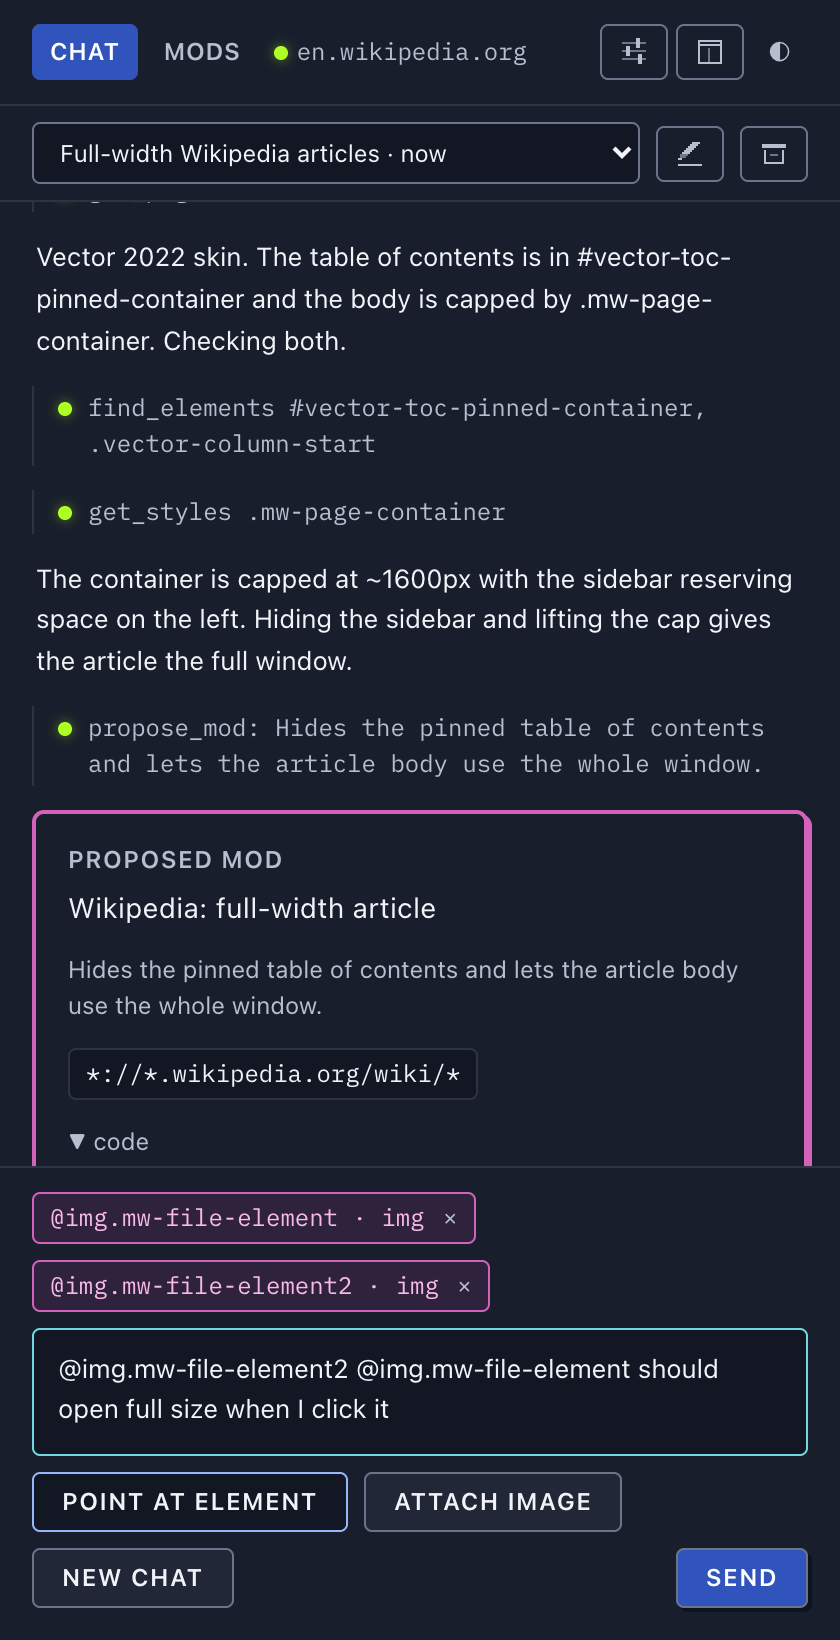
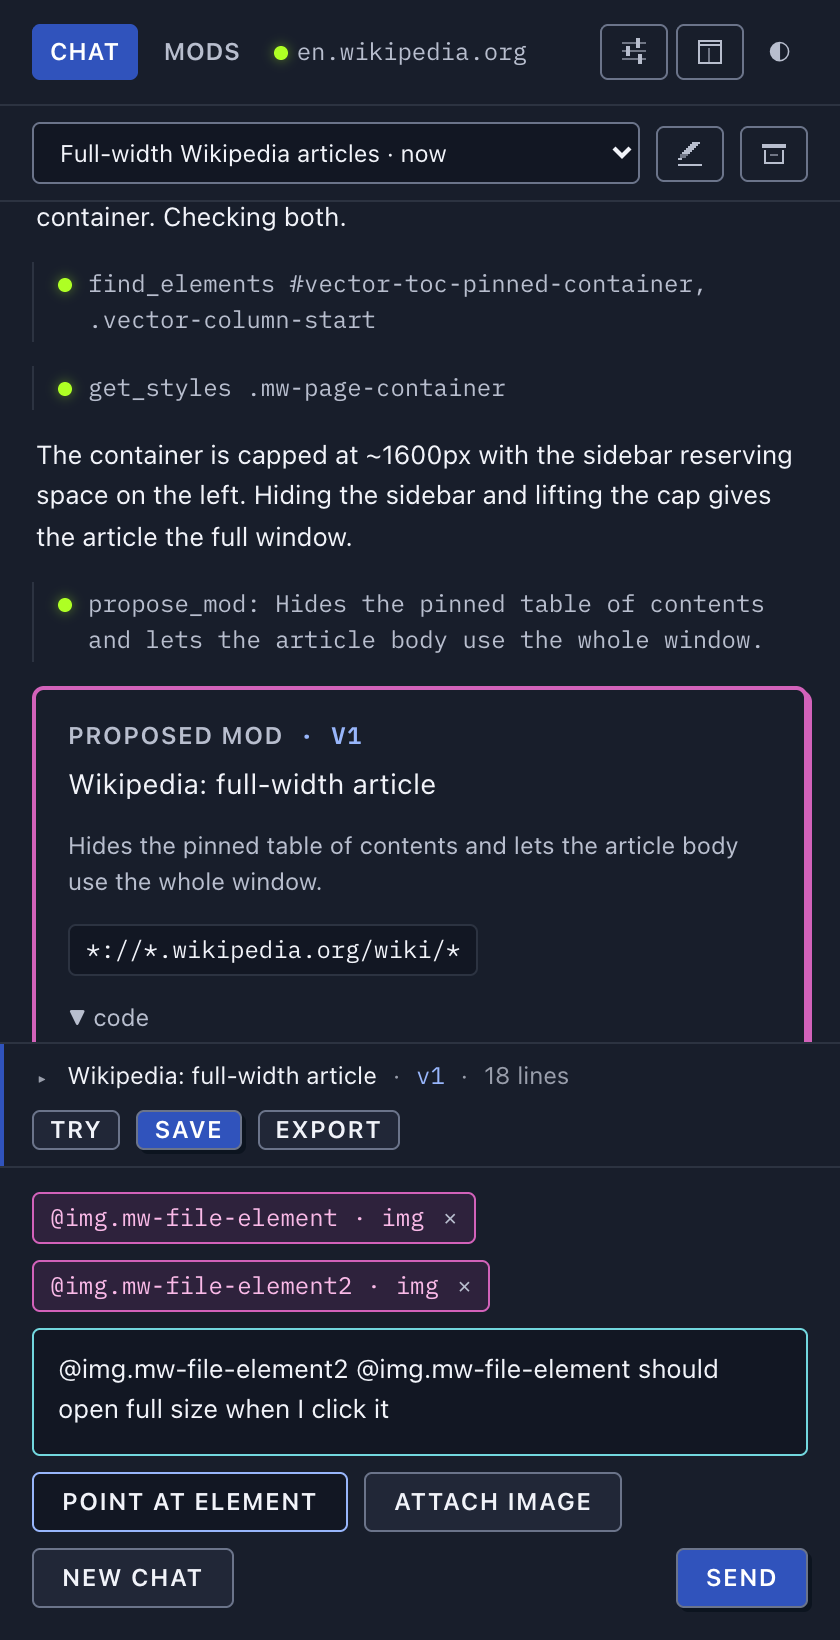
Integrate the draft mod with attachments: the fourth chat key, and the captures
Three things the merge left to settle.

The images suite asserted chatKeys() exactly, and the set legitimately grew a
fourth member when the draft key arrived. Widened rather than loosened: the
test still names every key, because that is what makes it catch the next key
someone adds and forgets to delete.

The two draft captures were numbered 08 and 09 on a branch that predated
08-images-*, so the merge produced two different 08s. Renumbered to 09 and 10.
Nothing links them yet, so this is only about the numbering staying a sequence.

Regenerated the captures on the merged code. 01-chat-proposal now shows both
features in one panel, which is the thing worth looking at: the collapsed draft
bar sits between the transcript and the composer, the proposal card reads "Open
in draft" rather than carrying its own Save, and Attach image is in the
composer's button row. docs/screenshots/hero-github.png is untouched.

diff --git a/test/images.test.ts b/test/images.test.ts
@@ -28,6 +28,7 @@ import {
   type AttachedImage,
 } from '../lib/images.ts';
 import { KEEP_IMAGE_TURNS, appendTurn, chatKeys, itemsKey, messagesKey, referencedHashes, slimMessages } from '../lib/chats.ts';
+import { artifactKey } from '../lib/artifact.ts';
 import { elideOldImages, estimatePart, IMAGE_TOKENS } from '../lib/agent/compact.ts';
 import type { ChatItem, Msg, Part } from '../lib/types.ts';
 import { pruneBlobs } from '../lib/blobs.ts';
@@ -273,7 +274,10 @@ test('tier 1 reports no change when every image is recent', () => {
 
 test('a chat owns a blobs key alongside its messages and items', () => {
   assert.equal(blobsKey('abc'), 'chat:abc:blobs');
-  assert.deepEqual(chatKeys('abc').sort(), [blobsKey('abc'), itemsKey('abc'), messagesKey('abc')].sort());
+  // Every per-chat key, not just the blobs one: chatKeys() is the single list every deletion route
+  // uses, so this asserts the whole set — a key added later and forgotten here fails loudly rather
+  // than leaking storage for the life of the profile. The draft mod's key is in it for that reason.
+  assert.deepEqual(chatKeys('abc').sort(), [blobsKey('abc'), itemsKey('abc'), messagesKey('abc'), artifactKey('abc')].sort());
 });
 
 test('the same image hashes to the same key and a different one does not', () => {
